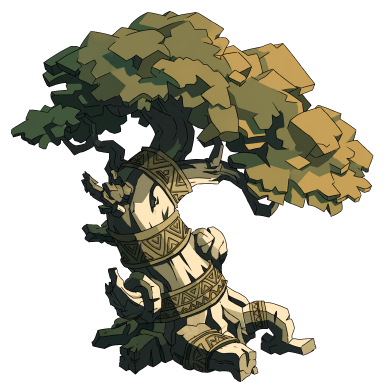
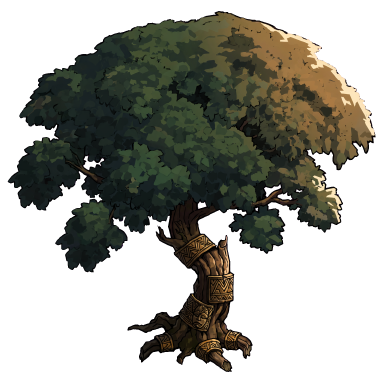
Paint scenery from the game camera's angle
The 3D camera's 52-degree elevation now lives in IsometricCamera and is the
SceneCamera default; prop prompts state it with per-family consequences
(crowns seen from above, trunks foreshortened, rims as ellipses) instead of
'a high three-quarter angle', which produced eye-level trees. Re-forged every
iroko and palm individual in all four kits.

Claude-Session: https://claude.ai/code/session_019mf7Pax912fK1LxTRaZ9pX

diff --git a/core/domain/src/main/kotlin/com/stratum/core/domain/art/ForgePlan.kt b/core/domain/src/main/kotlin/com/stratum/core/domain/art/ForgePlan.kt
@@ -326,6 +326,20 @@ object ForgePlanner {
         "A different individual from the usual one: older, larger and weathered, with an asymmetric, characterful shape.",
     )
 
+    /** What the scene camera's angle means for each family of prop, concretely. */
+    private fun seenFromAbove(family: PropSilhouette): String = when (family) {
+        PropSilhouette.CANOPY -> "Seen from above: the broad leafy crown dominates, its rounded top and upper surface of leaves " +
+            "clearly visible like a Diablo tree; only a short stretch of trunk and a few roots show beneath it."
+        PropSilhouette.SPIRE -> "Seen from above: the top is visible and the height is foreshortened."
+        PropSilhouette.FROND -> "Seen from above: the fronds spread outward from the centre like a star seen from above, " +
+            "their upper faces visible; the stem is short and partly hidden under them."
+        PropSilhouette.BRAZIER -> "Seen from above: you look down into the bowl, its rim a wide ellipse; the legs are short."
+        PropSilhouette.SHRINE -> "Seen from above: its top surface and offerings are visible; it looks squat rather than tall."
+        PropSilhouette.CRYSTAL -> "Seen from above: the facets of the tops are visible and the cluster looks squat."
+        PropSilhouette.BOULDER -> "Seen from above: the rounded top face is the largest visible part."
+        PropSilhouette.SIGIL -> "Seen from above: the top edge is visible and the height is foreshortened."
+    }
+
     private fun shapeWords(family: PropSilhouette): String = when (family) {
         PropSilhouette.CANOPY -> "a living tree with a trunk and a broad leafy crown"
         PropSilhouette.SPIRE -> "a tall narrow tree or standing stone"
@@ -351,8 +365,9 @@ object ForgePlanner {
             append(shapeWords(PropSilhouette.forMaterial(block)))
             append(", as a game prop sprite for an isometric action RPG like Diablo or Hades")
             if (setting.isNotBlank()) append(", belonging to $setting")
-            append(". The whole object is visible, centred, upright, seen from a high three-quarter camera angle, ")
-            append("with its base at the bottom of the frame. ")
+            append(". The whole object is visible and centred, with its base towards the bottom of the frame. ")
+            append(com.stratum.core.domain.ai.IsometricCamera.sceneClause).append(". ")
+            append(seenFromAbove(PropSilhouette.forMaterial(block))).append(" ")
             append("Isolated on a solid $KEY_NAME background that fills everything around the object. ")
             append("No ground plane, no base, no pedestal, no floor tile or platform under it, no cast shadow, no other objects, ")
             append("crisp clean silhouette edges, no magenta or pink anywhere on the object itself. ")

diff --git a/core/domain/src/main/kotlin/com/stratum/core/domain/ai/IsometricCamera.kt b/core/domain/src/main/kotlin/com/stratum/core/domain/ai/IsometricCamera.kt
@@ -31,6 +31,29 @@ object IsometricCamera {
      */
     const val ELEVATION_DEGREES = 30
 
+    /**
+     * The 3D view's camera: how far above the horizon it looks down.
+     *
+     * Steeper than the 2D projection, as Diablo III and Hades are. The scene
+     * camera takes its default from here and scenery prompts state it, so a
+     * tree is painted from the angle it is actually seen at; asked for "a
+     * high three-quarter angle", models painted trees from eye level, and a
+     * side-on trunk stood up in a world seen from above.
+     */
+    const val SCENE_ELEVATION_DEGREES = 52
+
+    /**
+     * What looking down at [SCENE_ELEVATION_DEGREES] means for a thing
+     * standing on the ground, stated as consequences a model can follow.
+     */
+    val sceneClause: String =
+        "Camera: a fixed high isometric game camera like Diablo III or Hades, $SCENE_ELEVATION_DEGREES degrees above the horizon " +
+            "and turned 45 degrees to the side, looking down on the object. Consequences: the top of the object is clearly visible " +
+            "and takes up much of the image; upright parts such as trunks, posts and legs are foreshortened, shorter than in a side view; " +
+            "anything round in plan, such as a crown of leaves, a bowl or a rim, appears as a wide ellipse seen from above; " +
+            "the base meets an unseen ground plane that recedes upward. Not a front view, not a side view, not eye level, " +
+            "no worm's-eye view, no wide-angle perspective"
+
     /** Turned this far off straight-on, which is what makes it three-quarter. */
     const val ROTATION_DEGREES = 45
 

diff --git a/engine/scene/src/main/kotlin/com/stratum/engine/scene/SceneCamera.kt b/engine/scene/src/main/kotlin/com/stratum/engine/scene/SceneCamera.kt
@@ -18,8 +18,11 @@ import kotlin.math.sin
  */
 data class SceneCamera(
     val target: Vec3,
-    /** Degrees above the horizon the camera looks down from. */
-    val pitch: Float = 52f,
+    /**
+     * Degrees above the horizon the camera looks down from. Shared with the
+     * forge's prompts, so scenery is painted from the angle it is seen at.
+     */
+    val pitch: Float = com.stratum.core.domain.ai.IsometricCamera.SCENE_ELEVATION_DEGREES.toFloat(),
     /** Degrees around z; 225 places the camera to the south-east, looking north-west. */
     val yaw: Float = 225f,
     /** Distance from target, in blocks. */

diff --git a/ARCHITECTURE.md b/ARCHITECTURE.md
@@ -477,6 +477,15 @@ order without seams.
 their four braziers, and paths are a thread through the grove with nothing
 growing on them.
 
+## Scenery is painted from the camera's angle
+
+The 3D camera looks down at `IsometricCamera.SCENE_ELEVATION_DEGREES` (52),
+and `SceneCamera` takes its default from there. Prop prompts state that angle
+in degrees and in consequences for each shape family — a tree's crown seen
+from above and dominating, its trunk foreshortened; a brazier's rim a wide
+ellipse. Asked only for "a high three-quarter angle", the model painted trees
+from eye level, and side-on trunks stood up in a world seen from above.
+
 ## Sprite shadows
 
 A camera-facing card seen from the sun casts a sliver or a slab — in the
